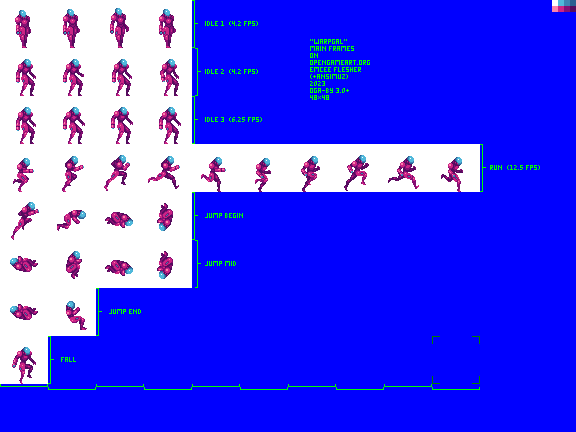
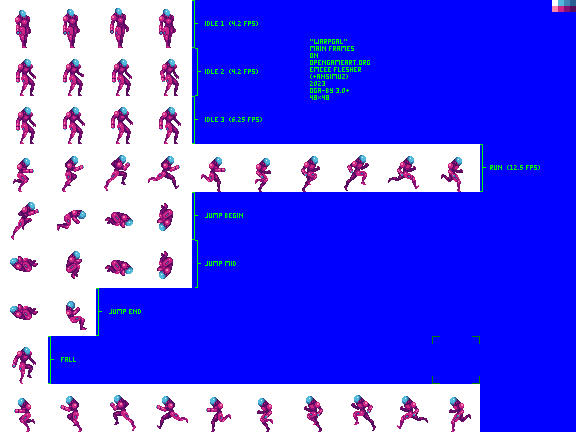
all animations for main guy

Changed region(s): [[0.0, 0.8727, 0.8438, 1.0]]

diff --git a/WinMain.cpp b/WinMain.cpp
@@ -94,8 +94,8 @@ struct v2
 
 // TODO: allocate tile memory properly so we can get 512 chunks
 // static const float globalTileWidth = 32.0f / 768.0f * 2.0f; // 32 pixels for 768 height window
-static const float globalTileWidth = 1 / 9.0f;                                                // 32 pixels for 768 height window
-static const int unsigned globalChunkHeightInTiles = 18;                                      // in tiles
+static const float globalTileWidth = 1 / 9.0f;                          // 32 pixels for 768 height window
+static const int unsigned globalChunkHeightInTiles = 18;                // in tiles
 static const int unsigned globalChunkWidthInTiles = 18 * (4.0f / 3.0f); // in tiles
 static float globalChunkWidthInUnits = globalChunkWidthInTiles * globalTileWidth;
 static float globalChunkHeightInUnits = globalChunkHeightInTiles * globalTileWidth;
@@ -167,15 +167,14 @@ INT WINAPI WinMain(HINSTANCE, HINSTANCE, LPSTR, int)
 
             // make clicking better, get keyboard messages
             // text rendering improve
-            // more data in tilemap for game collision??? 
+            // more data in tilemap for game collision???
             // maybe second map which brings up translucent image of green squares where collisions are, overlayed on tile editing mode????
 
             // maybe mario game???
 
             // switch to array of 2d textures
-            
 
-            // background music                
+            // background music
 
             // metroid style game:
             // static enemy
@@ -202,7 +201,7 @@ INT WINAPI WinMain(HINSTANCE, HINSTANCE, LPSTR, int)
 
             static struct
             {
-                v2 pos = v2(globalChunkWidthInUnits*4, globalChunkHeightInUnits*4); //centre chunk
+                v2 pos = v2(globalChunkWidthInUnits * 4, globalChunkHeightInUnits * 4); // centre chunk
                 v2 velocity;
                 float camH = 2.0f + 0.1f; // plus globalTileWidth/2
                 float camW = camH;
@@ -413,7 +412,8 @@ INT WINAPI WinMain(HINSTANCE, HINSTANCE, LPSTR, int)
                 // uint8_t visible = 0b1;
                 uint8_t tileIndex;
 
-                bool isCollidable() {
+                bool isCollidable()
+                {
                     return (tileIndex == 0x1A);
                 }
             };
@@ -597,7 +597,11 @@ INT WINAPI WinMain(HINSTANCE, HINSTANCE, LPSTR, int)
             static bool checkForFall = false;
             if (!playerIsGrounded || checkForFall)
             {
+                float terminalVelocity = 0.04f;                
                 player.velocity.y -= fallDistance;
+                if (player.velocity.y < -terminalVelocity) {
+                    player.velocity.y = -terminalVelocity;
+                }
                 checkForFall = false;
             }
             else
@@ -638,10 +642,10 @@ INT WINAPI WinMain(HINSTANCE, HINSTANCE, LPSTR, int)
                 for (int i = 0; i < chunkNumX; ++i)
                 {
                     bool interactingWithMap = false;
-                    chunk_info m =  mainTilemap.map[i][j];
+                    chunk_info m = mainTilemap.map[i][j];
                     v2 chunkPos = GetChunkWorldPos(i, j);
                     if (AABBTest(nextPlayerPos, player.width, player.height,
-                                 chunkPos + v2(globalChunkWidthInUnits / 2.0f, globalChunkHeightInUnits / 2.0f), globalChunkWidthInUnits+globalTileWidth, globalChunkHeightInUnits+globalTileWidth))
+                                 chunkPos + v2(globalChunkWidthInUnits / 2.0f, globalChunkHeightInUnits / 2.0f), globalChunkWidthInUnits + globalTileWidth, globalChunkHeightInUnits + globalTileWidth))
                     {
                         interactingWithMap = true;
                     }
@@ -754,7 +758,7 @@ INT WINAPI WinMain(HINSTANCE, HINSTANCE, LPSTR, int)
             {
                 editModeChooseTile = 0x14;
             }
-            
+
             if (GetAsyncKeyState(0x30 + 3) & 0x8000)
             {
                 editModeChooseTile = 0x17;
@@ -1135,7 +1139,7 @@ INT WINAPI WinMain(HINSTANCE, HINSTANCE, LPSTR, int)
                     chunk_info m = mainTilemap.map[i][j];
 
                     bool test_success = AABBTest(chunkPos + v2(w / 2.0f, h / 2.0f), w, h,
-                                                 main_camera.pos, main_camera.camW, main_camera.camH);                    
+                                                 main_camera.pos, main_camera.camW, main_camera.camH);
                     if (test_success)
                     {
                         // render map m
@@ -1168,7 +1172,24 @@ INT WINAPI WinMain(HINSTANCE, HINSTANCE, LPSTR, int)
             // end of tilemap drawing
 
             // renderer.DrawRect(player.pos.x - main_camera.pos.x, player.pos.y - main_camera.pos.y, player.width, player.height);
-            renderer.DrawGameTextureRect(player.pos.x - main_camera.pos.x, player.pos.y - main_camera.pos.y+0.04f, 48.0f / 768.0f * 4.0f, 48.0f / 768.0f * 4.0f, 0, 0, 432-192, 48, 432-144, (int)(frameCount/4.83f) % 10);
+            if (player.velocity.y != 0)
+            {
+                renderer.DrawGameTextureRect(player.pos.x - main_camera.pos.x, player.pos.y - main_camera.pos.y + 0.04f, 48.0f / 768.0f * 4.0f, 48.0f / 768.0f * 4.0f, 0, 0, 432 - 383, 48, 432 - 335);
+            }
+            else if (player.velocity.x > 0)
+            {
+                renderer.DrawGameTextureRect(player.pos.x - main_camera.pos.x, player.pos.y - main_camera.pos.y + 0.04f, 48.0f / 768.0f * 4.0f, 48.0f / 768.0f * 4.0f, 0, 0, 432 - 192, 48, 432 - 144, (int)(frameCount / 4.83f) % 10);
+            }
+            else if (player.velocity.x < 0)
+            {
+                renderer.DrawGameTextureRect(player.pos.x - main_camera.pos.x, player.pos.y - main_camera.pos.y + 0.04f, 48.0f / 768.0f * 4.0f, 48.0f / 768.0f * 4.0f, 0, 0, 0, 48, 48, (int)(frameCount / 4.83f) % 10);
+            }
+            else if (player.velocity.y == 0 && player.velocity.x == 0)
+            {
+                renderer.DrawGameTextureRect(player.pos.x - main_camera.pos.x, player.pos.y - main_camera.pos.y + 0.04f, 48.0f / 768.0f * 4.0f, 48.0f / 768.0f * 4.0f, 0, 0, 432 - 143, 48, 432 - 99, (int)(frameCount / 13.95f) % 4);
+            }
+            
+
             if (playerProjectile.active)
                 renderer.DrawRect(playerProjectile.x - main_camera.pos.x, playerProjectile.y - main_camera.pos.y, playerProjectile.w, playerProjectile.h);
             // if (enemyProjectile.active)
@@ -1190,9 +1211,9 @@ INT WINAPI WinMain(HINSTANCE, HINSTANCE, LPSTR, int)
                         sprite_animation anim = shield.anim;
                         clip_rect currentFrame = anim.frames[4 - shield.health];
 
-                        //renderer.DrawGameTextureRect(shield.pos.x - main_camera.pos.x, shield.pos.y - main_camera.pos.y, shield.width, shield.height, 0,
-                                                    //  currentFrame.point[0].x, currentFrame.point[0].y,
-                                                    //  currentFrame.point[1].x, currentFrame.point[1].y);
+                        // renderer.DrawGameTextureRect(shield.pos.x - main_camera.pos.x, shield.pos.y - main_camera.pos.y, shield.width, shield.height, 0,
+                        //   currentFrame.point[0].x, currentFrame.point[0].y,
+                        //   currentFrame.point[1].x, currentFrame.point[1].y);
                     }
                 }
             }
@@ -1211,7 +1232,7 @@ INT WINAPI WinMain(HINSTANCE, HINSTANCE, LPSTR, int)
                         y2 = enemy.anim.frames[aniFrame].point[1].y;
 
                         // renderer.DrawGameTextureRect(enemy.pos.x - main_camera.pos.x, enemy.pos.y - main_camera.pos.y, enemy.width, enemy.height, 0,
-                                                    //  x1, y1, x2, y2);
+                        //  x1, y1, x2, y2);
                     }
                 }
             }
@@ -1254,8 +1275,6 @@ INT WINAPI WinMain(HINSTANCE, HINSTANCE, LPSTR, int)
 
             // cursor
             // renderer.DrawRect(mouseX, mouseY, 0.1f, 0.1f);
-
-            
 
             frameCount++;
             renderer.pSwapChain->Present(1, 0);
